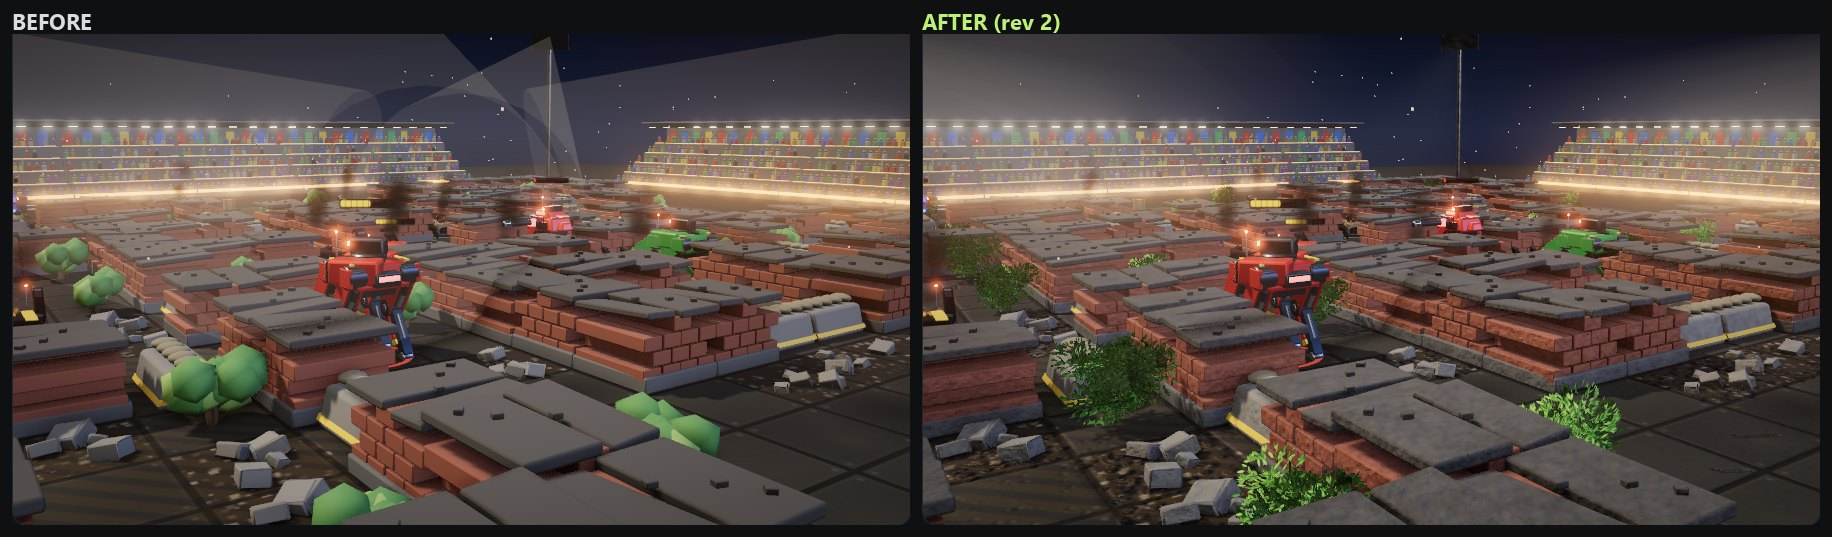
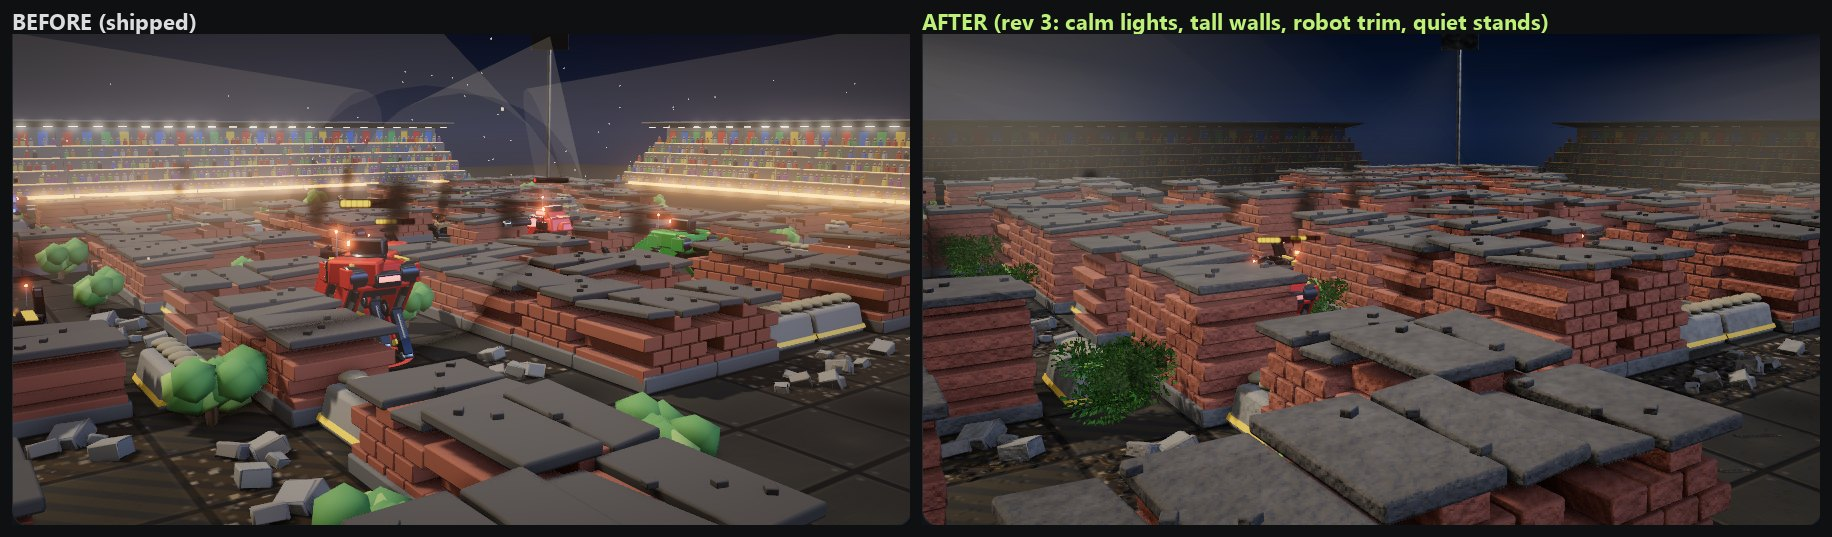
Calm arena lighting, tall walls, robot trim, quiet stands (?art=next)
Owner feedback round 3, all behind ?art=next: no motes, steady beams,
stand lamps off and stands dimmed to silhouettes, robot glow at 40%,
satin robot steel, bloom only above 0.96. New WallTall prop (7 courses,
single-chamfer bricks) so full cover stands above robot heads; robots
drawn at 1.0 scale instead of 1.3. Draw calls 1,076 -> 1,064, triangles
2.14M -> 1.97M; frame time unmeasured (GPU contention).

Tests: renderer3d suite, typecheck, lint pass.

Changed region(s): [[0.4978, 0.149, 0.9956, 0.9832], [0.56, 0.0298, 0.8401, 0.0596], [0.0311, 0.0298, 0.1245, 0.0596]]

diff --git a/src/renderer3d/BattleScene3D.ts b/src/renderer3d/BattleScene3D.ts
@@ -205,6 +205,32 @@ const hideFlaggedFromAO = (pass: GTAOPass): void => {
   };
 };
 
+/** Art upgrade: robots at true scale against taller cover, with dimmer glow. */
+const ART_ROBOT_SCALE = 1.0;
+const ART_ROBOT_GLOW = 0.4;
+
+/** Art upgrade: mirror-like robot steel catches every floodlight as glare;
+ * a satin finish keeps form shading without hot specular flashes. */
+const satinRobotMetal = (library: ModelLibrary | null): void => {
+  const done = new Set<THREE.Material>();
+  for (const model of library?.robots.values() ?? [])
+    for (const part of Object.values(model))
+      if (part instanceof THREE.Object3D)
+        part.traverse((child) => {
+          if (!(child instanceof THREE.Mesh)) return;
+          for (const material of Array.isArray(child.material)
+            ? child.material
+            : [child.material]) {
+            if (!(material instanceof THREE.MeshStandardMaterial) || done.has(material)) continue;
+            done.add(material);
+            if (material.name === "Steel" || material.name === "Gunmetal")
+              material.roughness = Math.max(material.roughness, 0.5);
+            if (material.name === "TeamPaint")
+              material.roughness = Math.max(material.roughness, 0.5);
+          }
+        });
+};
+
 /** Frame rate for pulsing route and target overlays while planning. */
 const PLANNING_AMBIENT_FPS = 20;
 
@@ -427,11 +453,12 @@ export class BattleScene3D {
     this.ao.blendIntensity = 0.9;
     this.ao.updateGtaoMaterial({ radius: 0.5, distanceExponent: 1.5, thickness: 1, scale: 1 });
     this.composer.addPass(this.ao);
+    // Art upgrade: bloom only for genuine light sources, not sunlit highlights.
     this.bloom = new UnrealBloomPass(
       new THREE.Vector2(1, 1),
-      theme.bloom.strength,
+      this.art ? theme.bloom.strength * 0.7 : theme.bloom.strength,
       theme.bloom.radius,
-      theme.bloom.threshold,
+      this.art ? Math.max(theme.bloom.threshold, 0.96) : theme.bloom.threshold,
     );
     this.composer.addPass(this.bloom);
     const vignette = new ShaderPass(VignetteShader);
@@ -488,7 +515,9 @@ export class BattleScene3D {
     this.arena = buildArena(this.state.arena, this.library, this.renderer, this.theme, this.art);
     this.scene.add(this.arena.group);
     if (this.theme.floodlights !== null) this.addFloodlightBeams(this.arena.floodlights);
-    this.addMotes();
+    // Art upgrade: no drifting motes; constant twinkle across the board distracts.
+    if (!this.art) this.addMotes();
+    if (this.art) satinRobotMetal(this.library);
     // Warm up the hover material too: first input must not compile its shader.
     this.resize();
     this.overlays.setCursor({ x: 0, y: 0 }, "#e8ffd0");
@@ -655,7 +684,8 @@ export class BattleScene3D {
         },
         onDetachTurret: (turret, velocity) => this.effects.throwPart(turret, velocity),
       },
-      this.theme.robotGlow,
+      this.art ? this.theme.robotGlow * ART_ROBOT_GLOW : this.theme.robotGlow,
+      this.art ? ART_ROBOT_SCALE : undefined,
     );
     this.rigs.set(id, rig);
     this.scene.add(rig.root);
@@ -1174,7 +1204,7 @@ export class BattleScene3D {
     for (const beam of this.beams) beam.visible = !on;
     if (this.motes !== null) this.motes.visible = !on;
     // Floodlight glare is drama for the movie; while planning it hides the board.
-    this.bloom.strength = this.theme.bloom.strength * (on ? 0.35 : 1);
+    this.bloom.strength = this.theme.bloom.strength * (this.art ? 0.7 : 1) * (on ? 0.35 : 1);
     // A narrow top-down lens sits much further out than the movie camera.
     const { width, height } = this.state.arena;
     this.controls.maxDistance = Math.max(width, height) * (on ? 4.5 : 2.2);
@@ -1394,7 +1424,8 @@ export class BattleScene3D {
       positions.needsUpdate = true;
     }
     for (const beam of this.beams) {
-      const opacity = 0.02 + Math.sin(this.now * 0.7 + beam.id) * 0.004;
+      // Art upgrade: steady beams; a pulsing light reads as flicker.
+      const opacity = this.art ? 0.02 : 0.02 + Math.sin(this.now * 0.7 + beam.id) * 0.004;
       const material = beam.material as THREE.MeshBasicMaterial | THREE.ShaderMaterial;
       if (material instanceof THREE.ShaderMaterial) material.uniforms["uOpacity"]!.value = opacity;
       else material.opacity = opacity;

diff --git a/src/renderer3d/ArenaBuilder.ts b/src/renderer3d/ArenaBuilder.ts
@@ -39,11 +39,33 @@ const matteStandSteel = (material: THREE.Material | THREE.Material[]) => {
   return matte;
 };
 
+/**
+ * Art upgrade: the stands are window dressing. Every stand material fades to a
+ * dark, matte near-silhouette and the LED ribbons, seat strips and canopy
+ * lamps go out, so nothing at the board's edge glows or draws the eye.
+ */
+const quietStands = new WeakMap<THREE.Material, THREE.Material>();
+const quietStand = (material: THREE.Material | THREE.Material[]) => {
+  if (Array.isArray(material) || !(material instanceof THREE.MeshStandardMaterial)) return material;
+  const cached = quietStands.get(material);
+  if (cached !== undefined) return cached;
+  const quiet = material.clone();
+  quiet.color.multiplyScalar(0.09);
+  quiet.emissiveIntensity = 0;
+  quiet.metalness = 0;
+  quiet.roughness = 1;
+  quiet.onBeforeCompile = () => undefined;
+  quiet.customProgramCacheKey = () => "quiet-stand";
+  quietStands.set(material, quiet);
+  return quiet;
+};
+
 /** Collects one instanced batch per (prop, mesh primitive). */
 const instanceProps = (
   library: ModelLibrary,
   placements: readonly Placement[],
   parent: THREE.Object3D,
+  art = false,
 ): void => {
   const byProp = new Map<PropName, THREE.Matrix4[]>();
   for (const placement of placements) {
@@ -57,7 +79,12 @@ const instanceProps = (
     template.updateMatrixWorld(true);
     template.traverse((child) => {
       if (!(child instanceof THREE.Mesh)) return;
-      const material = prop === "Grandstand" ? matteStandSteel(child.material) : child.material;
+      const material =
+        prop !== "Grandstand"
+          ? child.material
+          : art
+            ? quietStand(child.material)
+            : matteStandSteel(child.material);
       const mesh = new THREE.InstancedMesh(child.geometry, material, matrices.length);
       const local = child.matrixWorld;
       matrices.forEach((matrix, index) =>
@@ -330,7 +357,12 @@ export const buildArena = (
       switch (terrain) {
         case "wall":
           placements.push({
-            prop: library.props.has("WallB") && hash01(key, 13) > 0.5 ? "WallB" : "Wall",
+            prop:
+              art && library.props.has("WallTall")
+                ? "WallTall"
+                : library.props.has("WallB") && hash01(key, 13) > 0.5
+                  ? "WallB"
+                  : "Wall",
             matrix: tileMatrix(cx, cz, quarter, { x: 1, y: 0.92 + hash01(key, 2) * 0.16, z: 1 }),
           });
           break;
@@ -431,7 +463,7 @@ export const buildArena = (
           weatherMaterial(child.material);
       });
   }
-  instanceProps(library, placements, group);
+  instanceProps(library, placements, group, art);
   if (bushes.length > 0) {
     const foliage = buildFoliage(bushes, ["#5a9e36", "#6cb03e", "#82c24a", "#94cc58", "#4a8a2e"]);
     group.add(foliage.mesh);

diff --git a/src/renderer3d/RobotRig.ts b/src/renderer3d/RobotRig.ts
@@ -144,6 +144,7 @@ export class RobotRig {
     teamColor: string,
     private readonly events: RigEvents = {},
     glowIntensity = 1.8,
+    private readonly scale = ROBOT_SCALE,
   ) {
     const materials = teamMaterials(teamColor, glowIntensity);
     this.disposeTeamMaterials = materials.dispose;
@@ -152,7 +153,7 @@ export class RobotRig {
     this.idlePhase = hash01(id) * Math.PI * 2;
     this.height = new Spring(model.hullHeight, 140, 13);
     this.root.name = `robot:${id}`;
-    this.root.scale.setScalar(ROBOT_SCALE);
+    this.root.scale.setScalar(scale);
 
     const hullPart = instantiatePart(model.hull, materials);
     this.hull.add(hullPart);
@@ -494,8 +495,8 @@ export class RobotRig {
     const spread = this.destroyedState ? 1.35 : POSTURE_SPREAD[this.posture];
     const cos = Math.cos(this.bodyYaw);
     const sin = Math.sin(this.bodyYaw);
-    const rx = leg.rest.x * spread * ROBOT_SCALE;
-    const rz = leg.rest.y * spread * ROBOT_SCALE;
+    const rx = leg.rest.x * spread * this.scale;
+    const rz = leg.rest.y * spread * this.scale;
     // rotation.y = θ maps local (x, z) to (x cos θ + z sin θ, -x sin θ + z cos θ).
     out.set(
       this.position.x + rx * cos + rz * sin + this.velocity.x * lookahead,
@@ -623,7 +624,7 @@ export class RobotRig {
     // previews, fast playback) quicken the stride until a foot cannot fall
     // further behind than the leg can stretch. Plan for the segment's peak pace,
     // not the lagging smoothed velocity.
-    const legSpan = (this.model.upperLength + this.model.lowerLength) * ROBOT_SCALE;
+    const legSpan = (this.model.upperLength + this.model.lowerLength) * this.scale;
     const bodySpeed =
       this.segment !== null && !this.segment.hop
         ? (this.segment.from.distanceTo(this.segment.to) / this.segment.duration) * STRIDE_PEAK

diff --git a/src/renderer3d/models.ts b/src/renderer3d/models.ts
@@ -127,6 +127,7 @@ export interface RobotModel {
 export type PropName =
   | "Wall"
   | "WallB"
+  | "WallTall"
   | "LowWall"
   | "OuterWall"
   | "Bush"
@@ -201,6 +202,7 @@ const parseRobot = (robotClass: RobotClass, scene: THREE.Object3D): RobotModel =
 const PROP_NAMES: readonly PropName[] = [
   "Wall",
   "WallB",
+  "WallTall",
   "LowWall",
   "OuterWall",
   "Bush",

diff --git a/tools/blender/build_models.py b/tools/blender/build_models.py
@@ -662,29 +662,38 @@ def build_arena() -> None:
     objects: list[bpy.types.Object] = []
     import random
 
-    # Wall: a ruined brick-and-concrete block with exposed rebar.
-    rnd = random.Random(7)
-    parts = [box("w_base", (0.5, 0.5, 0.08), (0, 0, 0.08), m["concrete_dark"], bevel=0.02)]
-    for row in range(4):
-        offset = 0.125 if row % 2 else 0.0
-        for col in range(4):
-            x = -0.375 + col * 0.25 + offset
-            if x > 0.42:
-                continue
-            h = 0.16 + row * 0.15
-            if row == 3 and rnd.random() < 0.35:
-                continue
-            parts.append(box(f"w_b{row}{col}", (0.118, 0.47, 0.068), (x, 0, h), m["brick"],
-                             bevel=0.012, rot=(0, 0, rnd.uniform(-0.02, 0.02))))
-    # Broken capstones: two weathered slabs with a gap and a tilted, chipped end.
-    parts.append(box("w_cap0", (0.27, 0.5, 0.04), (-0.23, 0, 0.7), m["capstone"], bevel=0.018))
-    parts.append(box("w_cap1", (0.19, 0.48, 0.035), (0.29, -0.01, 0.695), m["capstone"],
-                     bevel=0.018, rot=(0.05, -0.06, 0.03)))
-    for i in range(3):
-        parts.append(box(f"w_chip{i}", (0.035, 0.03, 0.02),
-                         (rnd.uniform(-0.4, 0.4), rnd.uniform(-0.4, 0.4), 0.755),
-                         m["capstone"], bevel=0.008, rot=(0, 0, rnd.uniform(0, 3))))
-    objects.append(join("Wall", parts))
+    # Wall: a ruined brick-and-concrete block with exposed rebar. WallTall adds
+    # courses so full cover stands above every robot's head (art upgrade).
+    def coliseum_wall(name: str, rows: int, segments: int = 2) -> None:
+        rnd = random.Random(7)
+        top = 0.16 + (rows - 1) * 0.15 + 0.09
+        parts = [box("w_base", (0.5, 0.5, 0.08), (0, 0, 0.08), m["concrete_dark"], bevel=0.02)]
+        for row in range(rows):
+            offset = 0.125 if row % 2 else 0.0
+            for col in range(4):
+                x = -0.375 + col * 0.25 + offset
+                if x > 0.42:
+                    continue
+                h = 0.16 + row * 0.15
+                if row == rows - 1 and rnd.random() < 0.35:
+                    continue
+                parts.append(box(f"w_b{row}{col}", (0.118, 0.47, 0.068), (x, 0, h), m["brick"],
+                                 bevel=0.012, segments=segments,
+                                 rot=(0, 0, rnd.uniform(-0.02, 0.02))))
+        # Broken capstones: two weathered slabs with a gap and a tilted, chipped end.
+        parts.append(box("w_cap0", (0.27, 0.5, 0.04), (-0.23, 0, top), m["capstone"], bevel=0.018))
+        parts.append(box("w_cap1", (0.19, 0.48, 0.035), (0.29, -0.01, top - 0.005), m["capstone"],
+                         bevel=0.018, rot=(0.05, -0.06, 0.03)))
+        for i in range(3):
+            parts.append(box(f"w_chip{i}", (0.035, 0.03, 0.02),
+                             (rnd.uniform(-0.4, 0.4), rnd.uniform(-0.4, 0.4), top + 0.055),
+                             m["capstone"], bevel=0.008, rot=(0, 0, rnd.uniform(0, 3))))
+        objects.append(join(name, parts))
+
+    coliseum_wall("Wall", 4)
+    # Single-chamfer bricks keep the taller wall under the short wall's triangle
+    # count; every wall is drawn three times (scene, shadow map, AO normals).
+    coliseum_wall("WallTall", 7, segments=1)
 
     # Low wall: a sandbag-topped concrete barrier, crouch-height.
     parts = [box("lw_base", (0.48, 0.3, 0.17), (0, 0, 0.17), m["concrete"], bevel=0.04,
